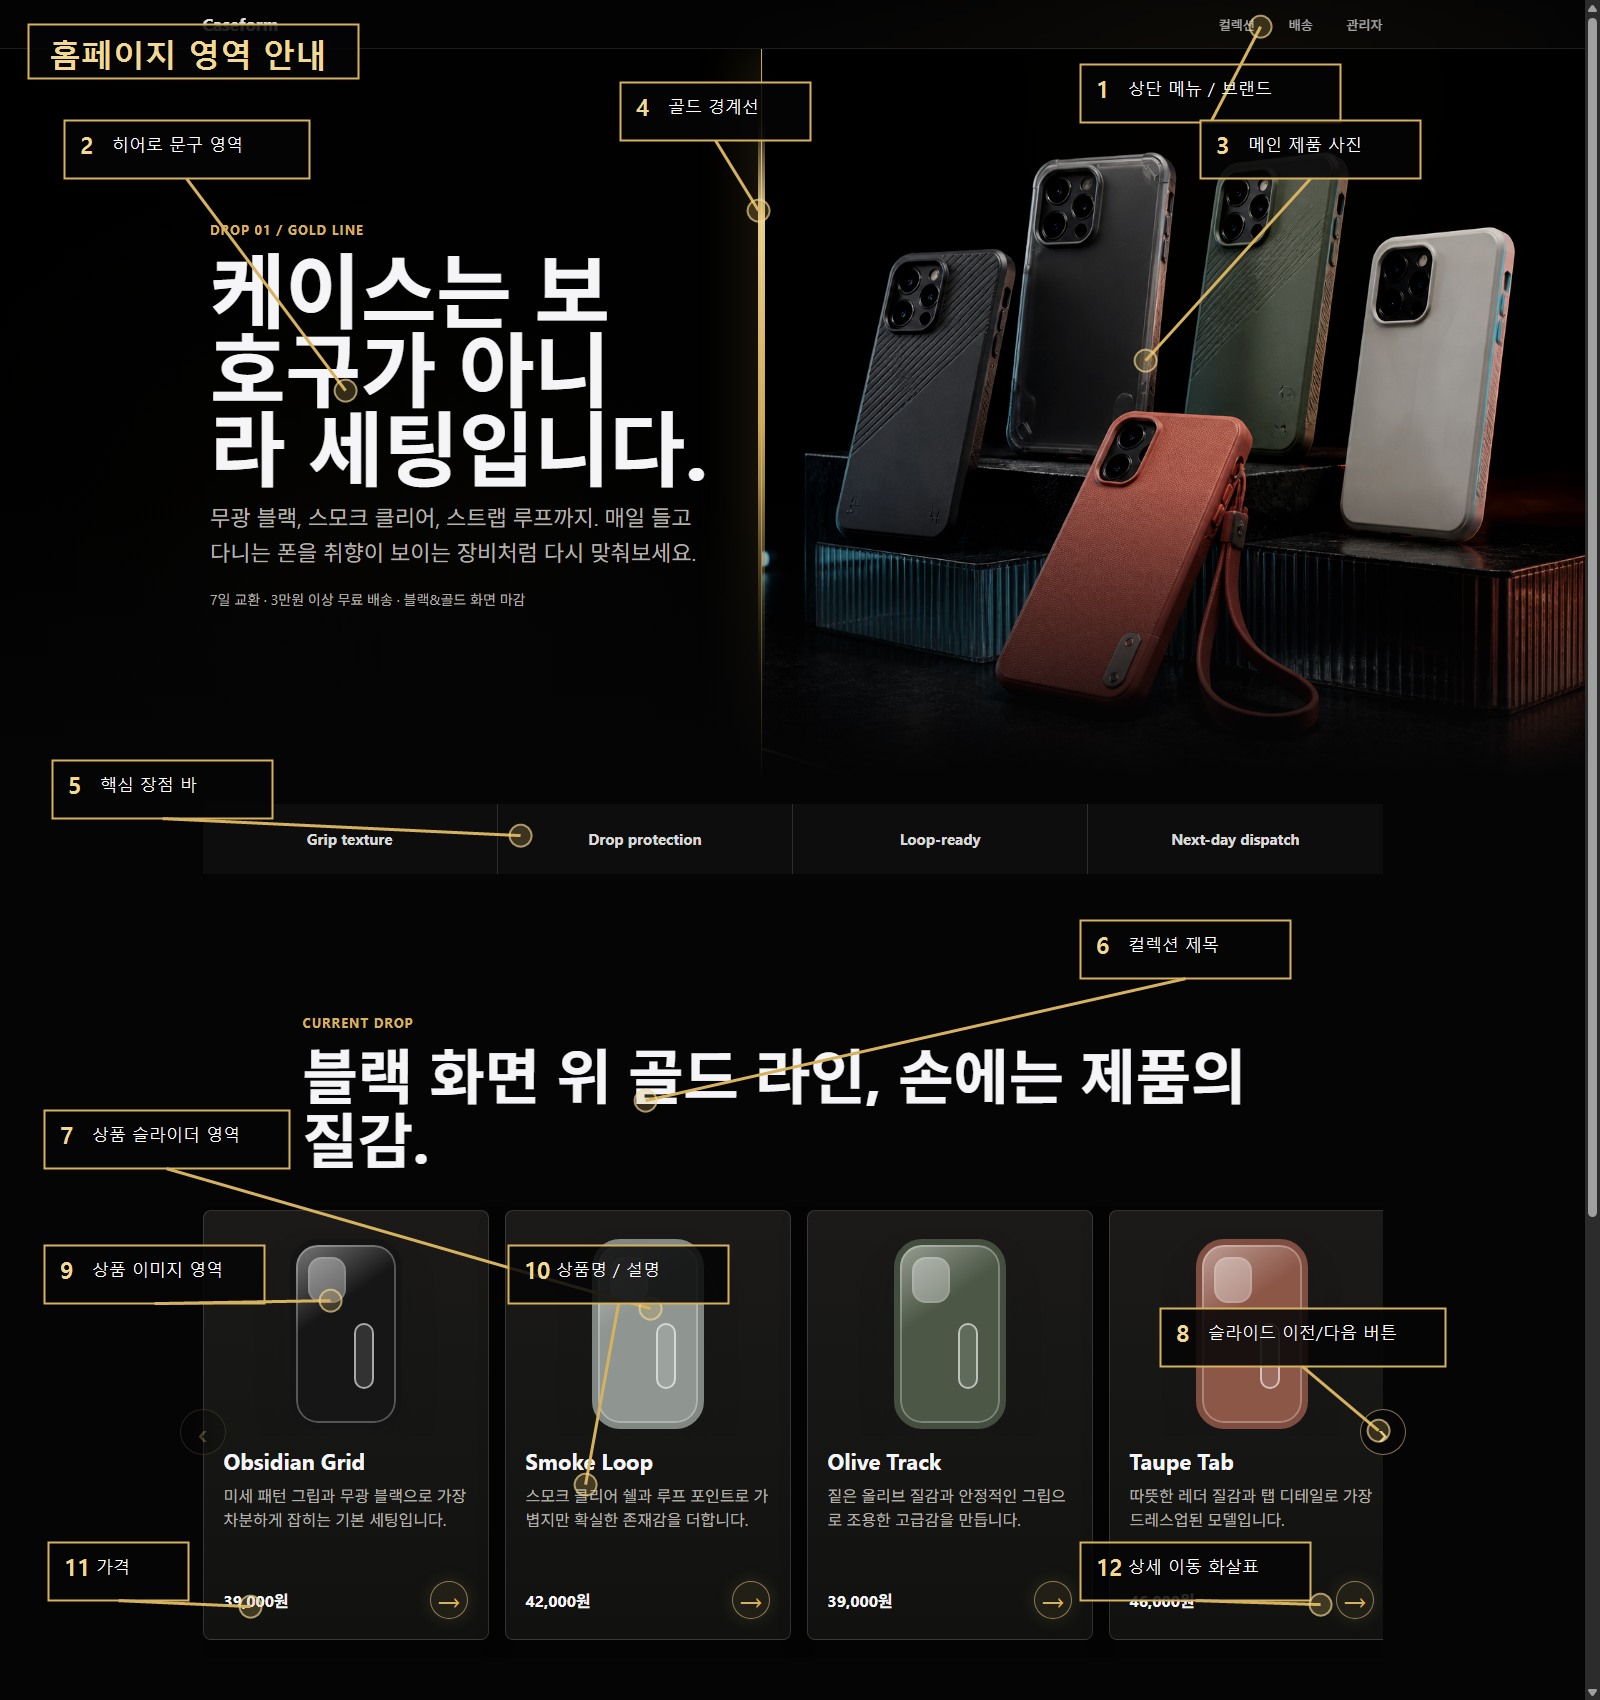
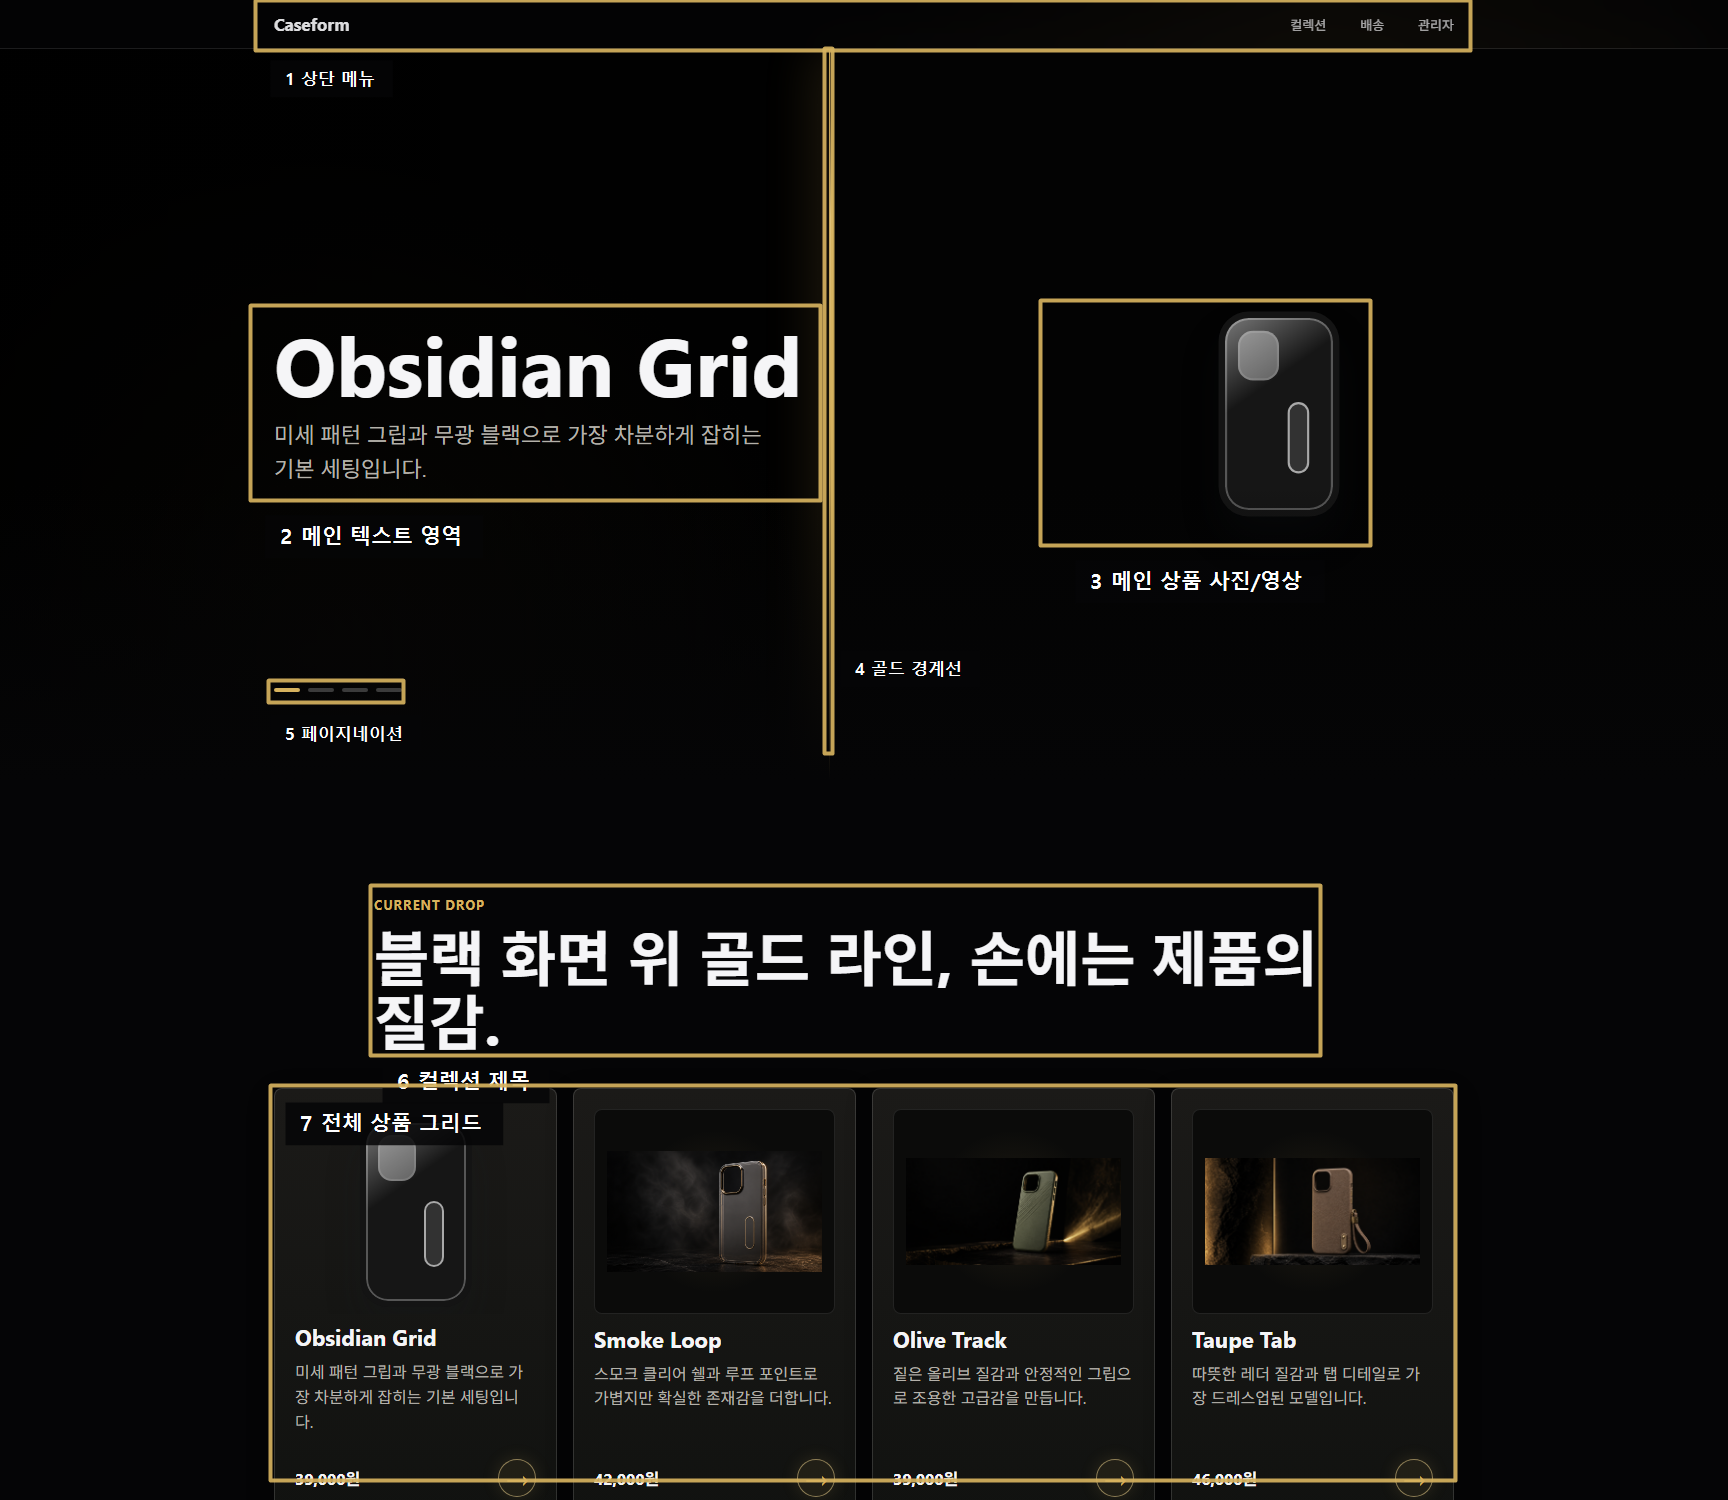
Show collection products as grid

diff --git a/styles.css b/styles.css
@@ -497,48 +497,21 @@ body:not(.gold-finish) .hero-media::before {
   width: min(1180px, 100%);
   margin: 0 auto;
   grid-template-columns: repeat(4, minmax(0, 1fr));
+  align-items: stretch;
   gap: 16px;
-}
-
-.product-slider {
-  position: relative;
-  width: min(1180px, 100%);
-  margin: 0 auto;
-}
-
-.collection-section .product-slider-track {
-  display: grid;
-  width: 100%;
-  margin: 0;
-  grid-auto-columns: minmax(286px, calc((100% - 32px) / 3));
-  grid-auto-flow: column;
-  grid-template-columns: none;
-  gap: 16px;
-  overflow-x: auto;
-  padding: 4px 0 18px;
-  scroll-padding: 0;
-  scroll-snap-type: x mandatory;
-  scrollbar-width: none;
-}
-
-.collection-section .product-slider-track::-webkit-scrollbar {
-  display: none;
 }
 
 .product-card {
   display: grid;
+  min-width: 0;
   min-height: 430px;
   align-content: space-between;
   border: 1px solid var(--line);
   border-radius: var(--radius);
   padding: 20px;
   background: linear-gradient(180deg, #1b1a18 0%, #111210 100%);
-  box-shadow: 0 8px 28px rgba(0, 0, 0, 0.22);
-}
-
-.product-slide {
   color: inherit;
-  scroll-snap-align: start;
+  box-shadow: 0 8px 28px rgba(0, 0, 0, 0.22);
 }
 
 .product-card:hover {
@@ -624,6 +597,7 @@ body:not(.gold-finish) .hero-media::before {
   min-height: 72px;
   color: var(--muted);
   line-height: 1.55;
+  overflow-wrap: anywhere;
 }
 
 .product-meta {
@@ -659,52 +633,10 @@ body:not(.gold-finish) .hero-media::before {
     transform 180ms ease;
 }
 
-.product-slide:hover .detail-arrow {
+.product-card:hover .detail-arrow {
   border-color: var(--gold-soft);
   background: rgba(214, 178, 94, 0.16);
   transform: translateX(2px);
-}
-
-.slider-button {
-  position: absolute;
-  z-index: 2;
-  top: 50%;
-  display: grid;
-  width: 46px;
-  height: 46px;
-  place-items: center;
-  border: 1px solid color-mix(in srgb, var(--gold-soft), transparent 48%);
-  border-radius: 50%;
-  background: rgba(5, 5, 6, 0.76);
-  color: var(--gold-soft);
-  font-size: 34px;
-  font-weight: 400;
-  line-height: 1;
-  cursor: pointer;
-  transform: translateY(-50%);
-  transition:
-    border-color 180ms ease,
-    background 180ms ease,
-    opacity 180ms ease;
-  backdrop-filter: blur(14px);
-}
-
-.slider-button:hover {
-  border-color: var(--gold-soft);
-  background: rgba(18, 16, 10, 0.9);
-}
-
-.slider-button:disabled {
-  opacity: 0.26;
-  cursor: default;
-}
-
-.slider-button.prev {
-  left: -23px;
-}
-
-.slider-button.next {
-  right: -23px;
 }
 
 .studio-section {
@@ -1527,9 +1459,23 @@ legend,
 
   .section-heading h2,
   .service-section h2 {
-    font-size: clamp(28px, 7.8vw, 34px);
-    word-break: keep-all;
-    overflow-wrap: break-word;
+    font-size: clamp(22px, 5.8vw, 26px);
+    line-height: 1.12;
+    word-break: normal;
+    overflow-wrap: anywhere;
+  }
+
+  .section-heading,
+  .product-grid {
+    width: calc(100vw - 40px);
+    max-width: calc(100vw - 40px);
+    margin-right: auto;
+    margin-left: auto;
+  }
+
+  .section-heading h2,
+  .product-card {
+    max-width: 100%;
   }
 
   .hero-copy {
@@ -1572,17 +1518,7 @@ legend,
   }
 
   .product-grid {
-    grid-template-columns: 1fr;
-  }
-
-  .product-slider {
-    width: 100%;
-  }
-
-  .collection-section .product-slider-track {
-    grid-auto-columns: 100%;
-    gap: 14px;
-    padding-inline: 0;
+    grid-template-columns: minmax(0, 1fr);
   }
 
   .product-card {
@@ -1597,23 +1533,6 @@ legend,
   .product-card-media {
     max-height: 190px;
     padding: 8px;
-  }
-
-  .slider-button {
-    top: auto;
-    bottom: -18px;
-    width: 42px;
-    height: 42px;
-    font-size: 30px;
-    transform: none;
-  }
-
-  .slider-button.prev {
-    left: 0;
-  }
-
-  .slider-button.next {
-    right: 0;
   }
 
   .studio-panel {

diff --git a/script.js b/script.js
@@ -4,8 +4,6 @@ let settings = window.CaseformConfig.load();
 let products = settings.products;
 
 const productGrid = document.querySelector("#product-grid");
-const productPrev = document.querySelector("#product-prev");
-const productNext = document.querySelector("#product-next");
 const hero = document.querySelector(".hero");
 const heroTitle = document.querySelector("#hero-title");
 const heroSubtitle = document.querySelector("#hero-subtitle");
@@ -13,8 +11,6 @@ const heroCopyLink = document.querySelector("#hero-copy-link");
 const heroMediaLink = document.querySelector("#hero-media-link");
 const heroPreload = document.querySelector("#hero-preload");
 const { escapeHtml, mediaSource, productHasMedia, productMediaKind, productMediaMarkup } = window.CaseformConfig;
-const mobileQuery = window.matchMedia("(max-width: 720px)");
-let productSlideTimer;
 let heroSlideTimer;
 let heroSwapTimer;
 let activeHeroSlide = 0;
@@ -180,7 +176,7 @@ function renderProducts() {
   productGrid.innerHTML = products
     .map(
       (product, index) => `
-        <a class="product-card product-slide" href="${productUrl(index)}" aria-label="${escapeHtml(product.name)} 상세페이지로 이동">
+        <a class="product-card" href="${productUrl(index)}" aria-label="${escapeHtml(product.name)} 상세페이지로 이동">
           <span class="product-visual${productHasMedia(product) ? " has-product-media" : ""}">
             ${productMediaMarkup(product, { mediaClass: "product-media product-card-media" })}
           </span>
@@ -196,55 +192,6 @@ function renderProducts() {
       `,
     )
     .join("");
-
-  updateSliderButtons();
-}
-
-function slideProducts(direction) {
-  const slide = productGrid.querySelector(".product-slide");
-  if (!slide) return;
-
-  const gap = Number.parseFloat(getComputedStyle(productGrid).columnGap) || 16;
-  productGrid.scrollBy({
-    left: direction * (slide.getBoundingClientRect().width + gap),
-    behavior: "smooth",
-  });
-}
-
-function scrollToNextProduct() {
-  const maxScroll = productGrid.scrollWidth - productGrid.clientWidth - 2;
-  if (maxScroll <= 2) return;
-
-  if (productGrid.scrollLeft >= maxScroll) {
-    productGrid.scrollTo({ left: 0, behavior: "smooth" });
-    return;
-  }
-
-  slideProducts(1);
-}
-
-function startProductSlider() {
-  stopProductSlider();
-  if (mobileQuery.matches) return;
-
-  productSlideTimer = window.setInterval(() => {
-    if (!document.hidden) scrollToNextProduct();
-  }, 4200);
-}
-
-function stopProductSlider() {
-  if (productSlideTimer) {
-    window.clearInterval(productSlideTimer);
-    productSlideTimer = null;
-  }
-}
-
-function updateSliderButtons() {
-  if (!productPrev || !productNext) return;
-
-  const maxScroll = productGrid.scrollWidth - productGrid.clientWidth - 2;
-  productPrev.disabled = productGrid.scrollLeft <= 2;
-  productNext.disabled = productGrid.scrollLeft >= maxScroll;
 }
 
 function refreshFromStorage() {
@@ -256,12 +203,10 @@ function refreshFromStorage() {
   activeHeroSlide = 0;
   applySettings();
   renderProducts();
-  startProductSlider();
 }
 
 applySettings();
 renderProducts();
-startProductSlider();
 
 document.querySelector("#hero-slide-dots").addEventListener("click", (event) => {
   const dot = event.target.closest("[data-hero-dot]");
@@ -273,22 +218,6 @@ hero.addEventListener("mouseenter", stopHeroSlider);
 hero.addEventListener("mouseleave", startHeroSlider);
 hero.addEventListener("focusin", stopHeroSlider);
 hero.addEventListener("focusout", startHeroSlider);
-productPrev.addEventListener("click", () => slideProducts(-1));
-productNext.addEventListener("click", () => slideProducts(1));
-productGrid.addEventListener("scroll", updateSliderButtons, { passive: true });
-productGrid.addEventListener("mouseenter", stopProductSlider);
-productGrid.addEventListener("mouseleave", startProductSlider);
-productGrid.addEventListener("focusin", stopProductSlider);
-productGrid.addEventListener("focusout", startProductSlider);
-window.addEventListener("resize", () => {
-  updateSliderButtons();
-  startProductSlider();
-});
-
-mobileQuery.addEventListener("change", () => {
-  productGrid.scrollTo({ left: 0 });
-  startProductSlider();
-});
 
 window.addEventListener("storage", (event) => {
   if (event.key === window.CASEFORM_STORAGE_KEY) refreshFromStorage();

diff --git a/index.html b/index.html
@@ -43,11 +43,7 @@
           <p class="eyebrow" data-setting="collectionEyebrow">Current drop</p>
           <h2 id="collection-title" data-setting="collectionTitle">색보다 먼저 고르는 건 손에 남는 감각.</h2>
         </div>
-        <div class="product-slider" aria-label="상품 슬라이더">
-          <button class="slider-button prev" id="product-prev" type="button" aria-label="이전 상품">&#8249;</button>
-          <div class="product-grid product-slider-track" id="product-grid" tabindex="0"></div>
-          <button class="slider-button next" id="product-next" type="button" aria-label="다음 상품">&#8250;</button>
-        </div>
+        <div class="product-grid" id="product-grid"></div>
       </section>
 
       <section class="section service-section" id="support" aria-label="배송 및 서비스">